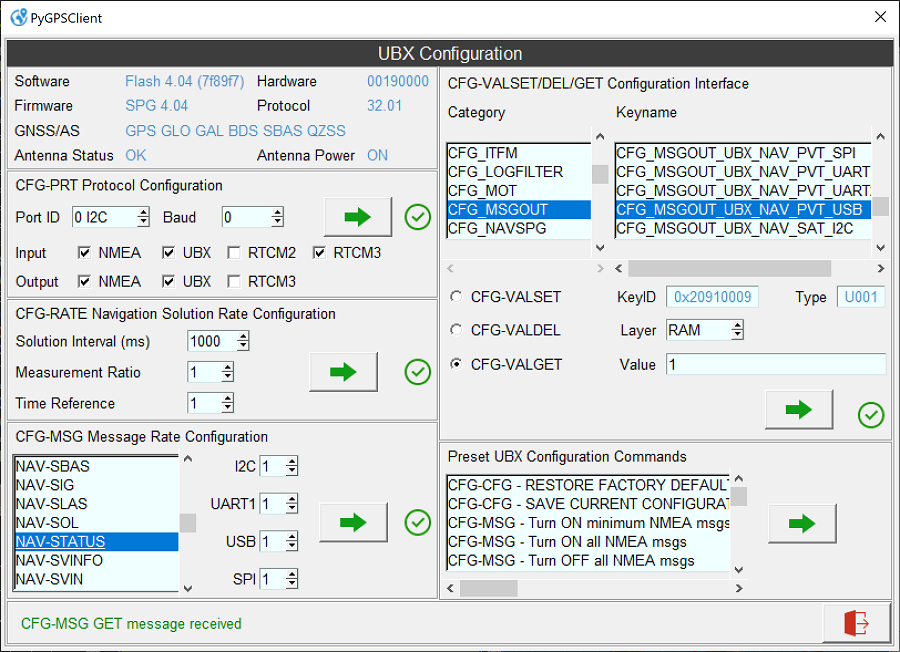
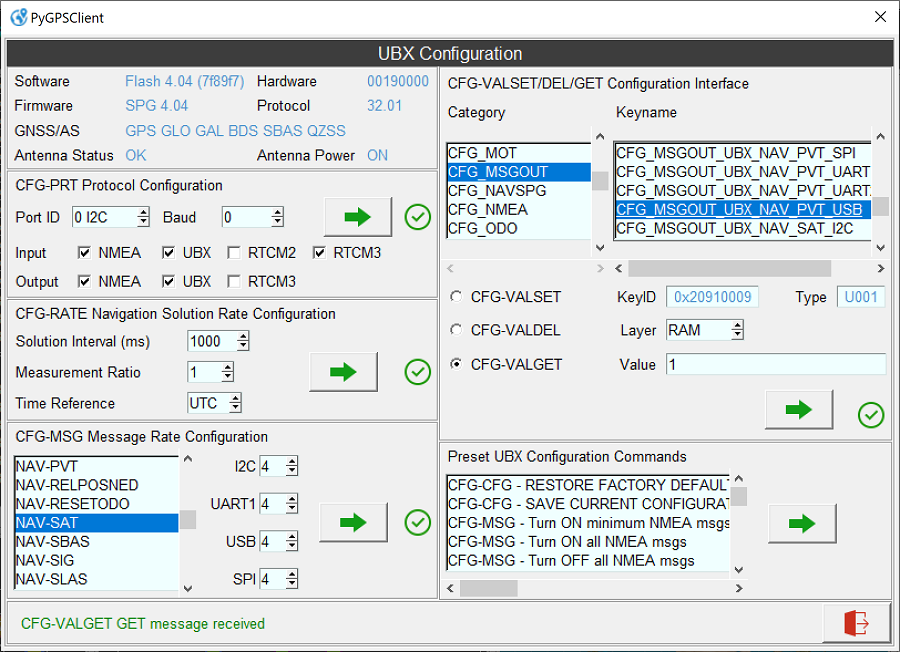
decode timeRef in CFG-RATE config panel

diff --git a/pygpsclient/ubx_solrate_frame.py b/pygpsclient/ubx_solrate_frame.py
@@ -13,6 +13,7 @@ from tkinter import (
     Button,
     Label,
     IntVar,
+    StringVar,
     E,
     W,
 )
@@ -34,11 +35,11 @@ from .globals import (
 from .strings import LBLCFGRATE
 
 TIMEREFS = {
-    "UTC": 0,
-    "GPS": 1,
-    "GLO": 2,
-    "BEI": 3,
-    "GAL": 4,
+    0: "UTC",
+    1: "GPS",
+    2: "GLO",
+    3: "BEI",
+    4: "GAL",
 }
 
 
@@ -67,7 +68,7 @@ class UBX_RATE_Frame(Frame):
         self._img_warn = ImageTk.PhotoImage(Image.open(ICON_WARNING))
         self._measint = IntVar()
         self._navrate = IntVar()
-        self._timeref = IntVar()
+        self._timeref = StringVar()
 
         self._body()
         self._do_layout()
@@ -82,7 +83,7 @@ class UBX_RATE_Frame(Frame):
         self._lbl_ubx_measint = Label(self, text="Solution Interval (ms)")
         self._spn_ubx_measint = Spinbox(
             self,
-            values=(50, 100, 200, 500, 1000, 2000, 5000, 10000),
+            values=(25, 50, 100, 200, 500, 1000, 2000, 5000, 10000),
             width=6,
             state=READONLY,
             readonlybackground=ENTCOL,
@@ -103,8 +104,8 @@ class UBX_RATE_Frame(Frame):
         self._lbl_ubx_timeref = Label(self, text="Time Reference")
         self._spn_ubx_timeref = Spinbox(
             self,
-            values=(0, 1, 2, 3, 4),
-            width=4,
+            values=list(TIMEREFS.values()),
+            width=5,
             state=READONLY,
             readonlybackground=ENTCOL,
             wrap=True,
@@ -174,7 +175,7 @@ class UBX_RATE_Frame(Frame):
         if cfgtype == "CFG-RATE":
             self._measint.set(kwargs.get("measrate", 1000))
             self._navrate.set(kwargs.get("navrate", 1))
-            self._timeref.set(kwargs.get("timeref", 0))
+            self._timeref.set(TIMEREFS[kwargs.get("timeref", 0)])
             self._lbl_send_command.config(image=self._img_confirmed)
             self.__container.set_status("CFG-RATE GET message received", "green")
         elif cfgtype == "ACK-NAK":
@@ -186,13 +187,19 @@ class UBX_RATE_Frame(Frame):
         Handle Send rate config button press.
         """
 
+        tref = 0
+        for (key, val) in TIMEREFS.items():
+            if val == self._timeref.get():
+                tref = key
+                break
+
         msg = UBXMessage(
             "CFG",
             "CFG-RATE",
             SET,
             measRate=self._measint.get(),
             navRate=self._navrate.get(),
-            timeRef=self._timeref.get(),
+            timeRef=tref,
         )
         self.__app.serial_handler.serial_write(msg.serialize())
         self._lbl_send_command.config(image=self._img_pending)

diff --git a/README.md b/README.md
@@ -66,8 +66,9 @@ Contributions welcome - please refer to [CONTRIBUTING.MD](https://github.com/sem
 The UBX Configuration Dialog currently supports the following UBX configuration 'widgets':
 1. Shows current device hardware/firmware versions via MON-VER and MON-HW polls. Clicking anywhere in the widget background will refresh the displayed information with the current configuration.
 1. CFG-PRT sets baud rate and inbound/outbound protocols across all available ports.
-1. CFG-RATE sets navigation solution interval in ms (e.g. 1000 = 1/second) and measurement ratio.
-1. CFG-MSG sets message rates per port for UBX protocol messages and NMEA protocol messages (standard & proprietary). Message rate is relative to navigation solution frequency e.g. a message rate of '4' means 'every 4th navigation solution'.
+1. CFG-RATE sets navigation solution interval in ms (e.g. 1000 = 1/second) and measurement ratio (ratio between the number of
+measurements and the number of navigation solutions, e.g. 5 = five measurements per navigation solution).
+1. CFG-MSG sets message rates per port for UBX and NMEA messages. Message rate is relative to navigation solution frequency e.g. a message rate of '4' means 'every 4th navigation solution'.
 1. CFG-VALSET, CFG-VALDEL and CFG-VALGET configuration (for Generation 9+ devices).
 1. PRESET commands support a variety of preset and user-defined commands - see [user defined presets](#userdefined)
 
